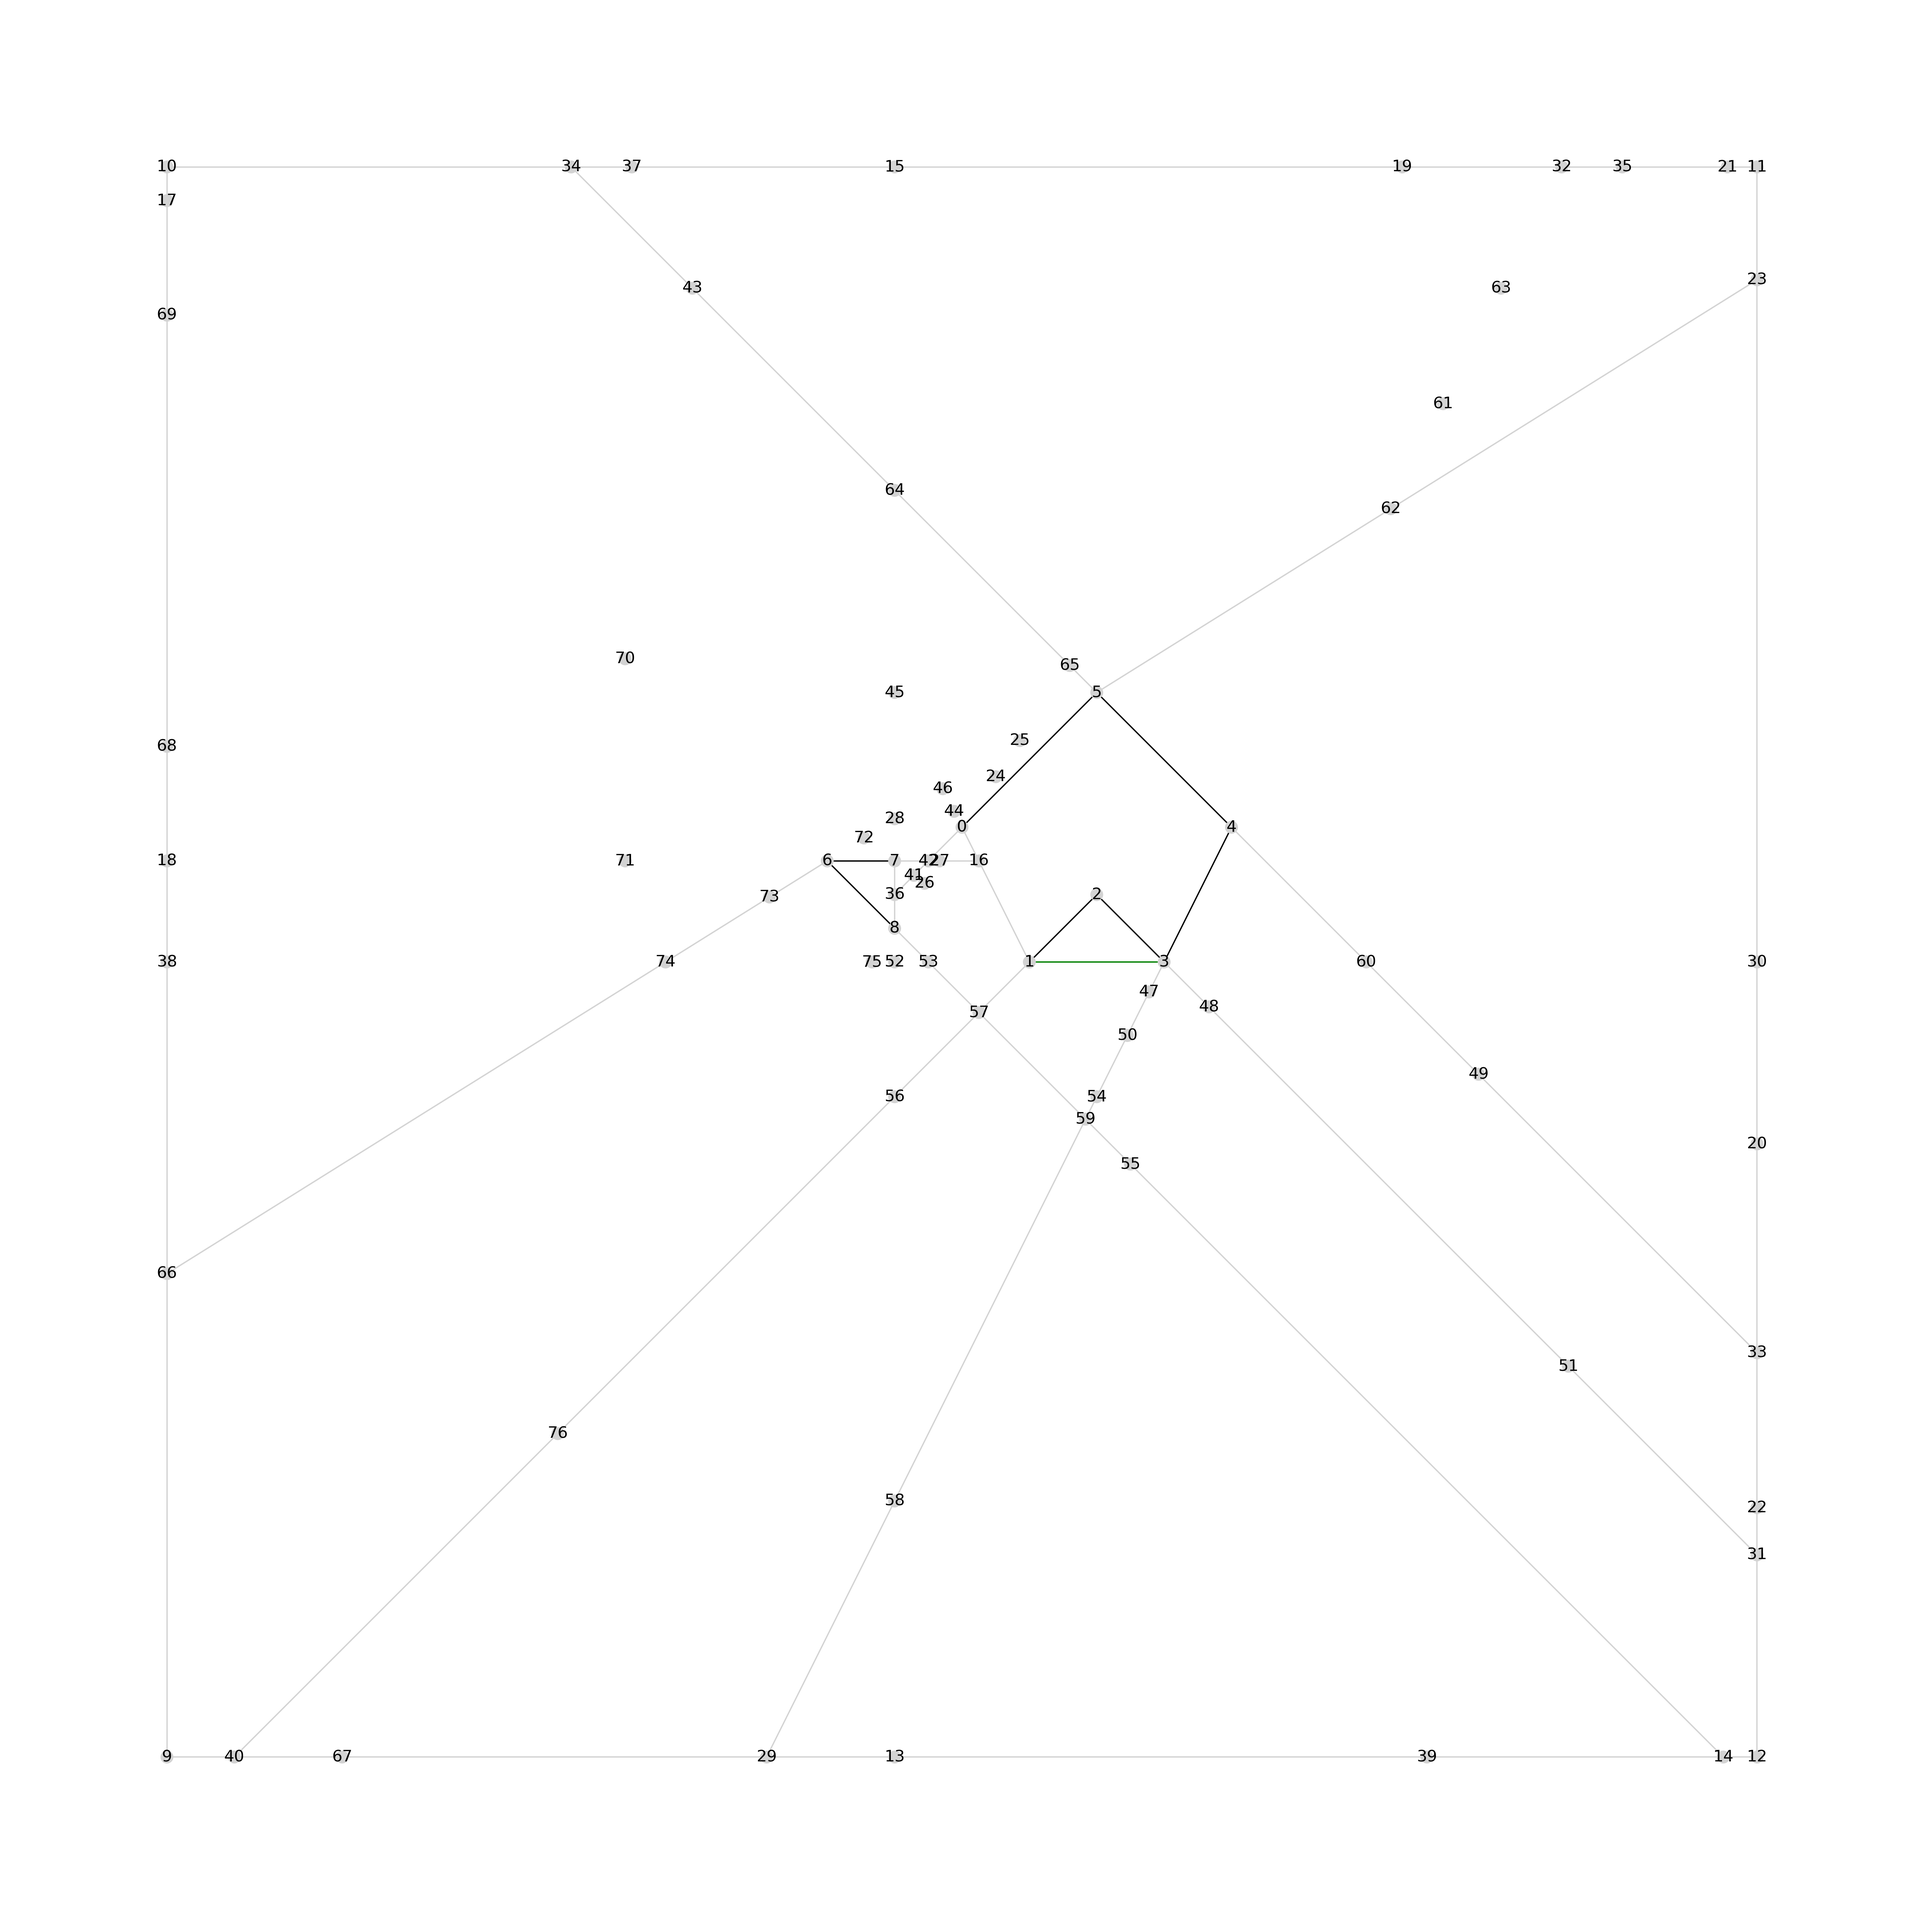
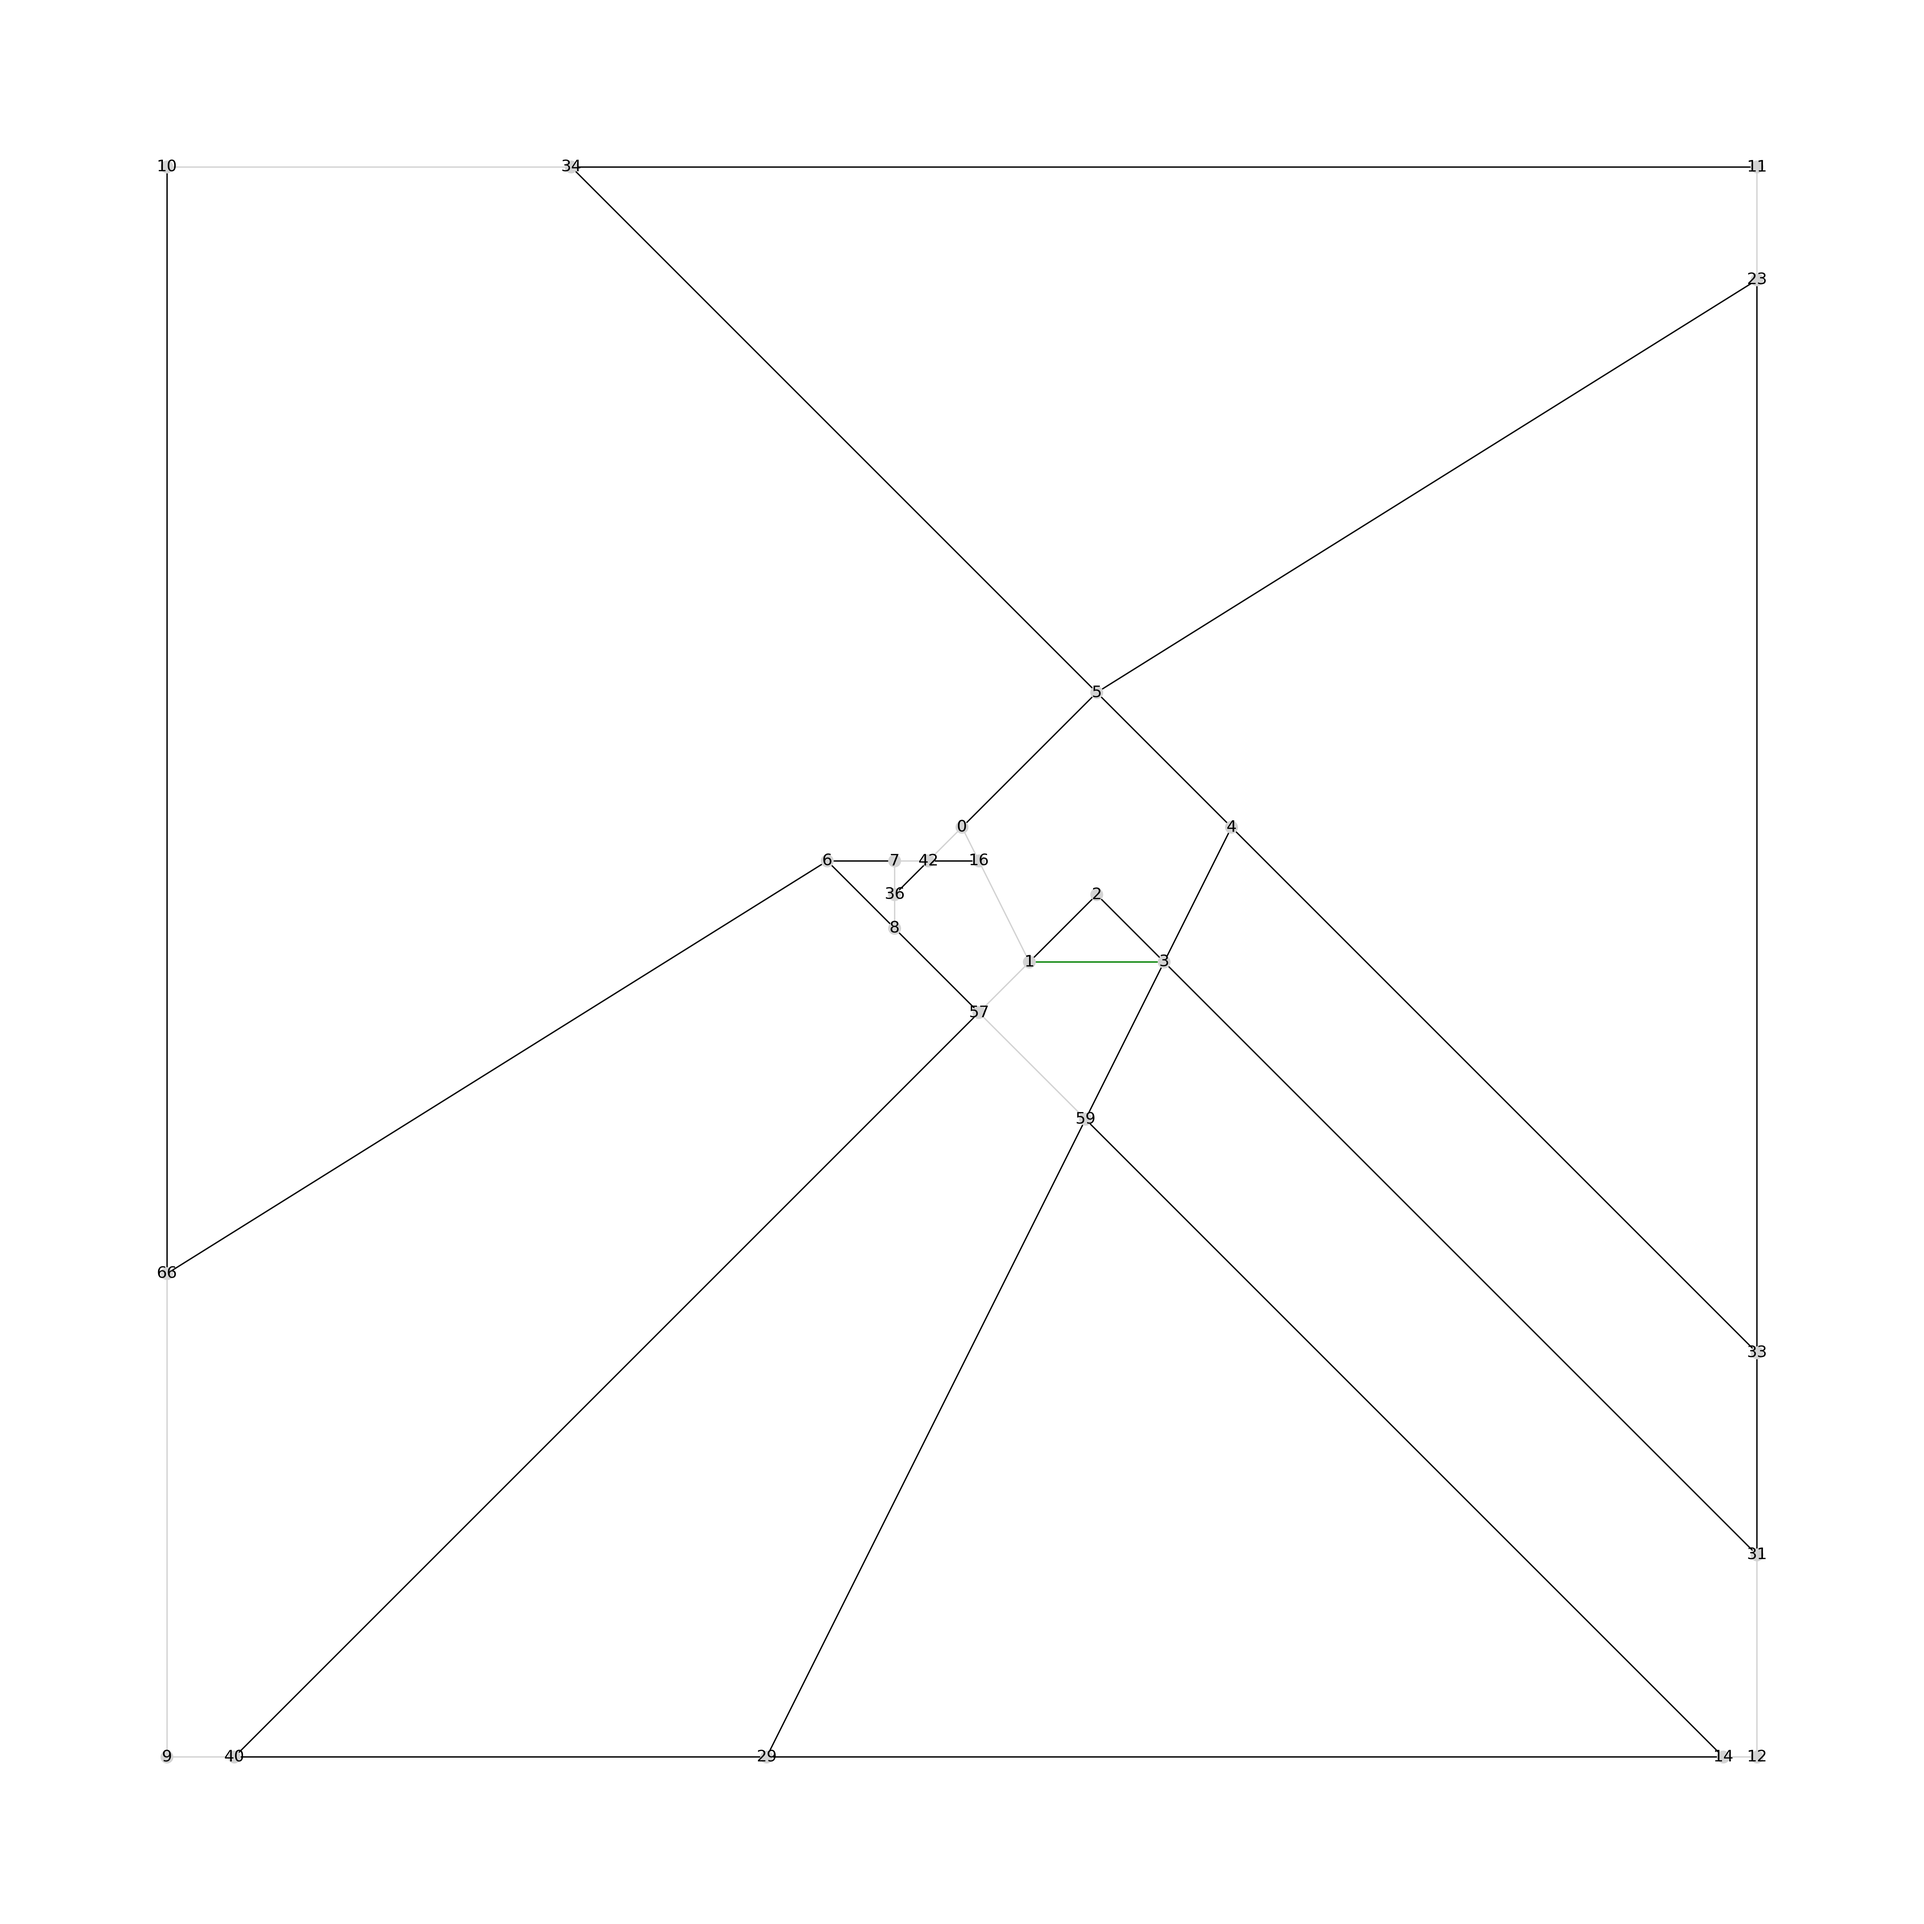
simplifcation of graph post merger now complete

Changed region(s): [[0.4675, 0.4363, 0.4987, 0.4675]]

diff --git a/src/sight_cells.py b/src/sight_cells.py
@@ -534,7 +534,6 @@ def check_vertex_visibility_by_crossing(vertex_a, vertex_b, candidate_edges, pos
 def merge_cells_wrapper(face_sight_cells, cells_edge_list, cell_incidences, graph):
 
     # Try Merging Cells in non-convex face
-    # TODO: t
     removed_vertices = merge_face_sight_cells(cells=list(face_sight_cells),
                                               cells_edge_list=cells_edge_list,
                                               cell_incidences=cell_incidences,
@@ -546,6 +545,39 @@ def merge_cells_wrapper(face_sight_cells, cells_edge_list, cell_incidences, grap
                                   face_cell_incidences=cell_incidences,
                                   face_cell_edges=cells_edge_list,
                                   deleted_vertices=frozenset(removed_vertices))
+
+
+def update_sight_cell_graph(sight_cells, graph, positions):
+
+    # Replace all vertices which are virtual, have a degree of 2, and connected only to virtual vertices
+    virtual_nodes = nx.get_node_attributes(graph, "virtual")
+
+    # Iterate over all vertices to determine whether it must be removed
+    for node in list(graph.nodes()):
+
+        # Get the current node's edges
+        node_edges = list(graph.edges(node))
+
+        # If the vertex is disconnected, remove it
+        if len(node_edges) == 0:
+            graph.remove_node(node)
+            continue
+
+        # If the node has a degree of more than 2, it must remain
+        if len(node_edges) > 2 or len(node_edges) == 1:
+            continue
+
+        # If the node is not virtual, do not consider it
+        if node not in virtual_nodes:
+            continue
+
+        # Get vertices adjacent to current node and connect them with a new edge
+        vertex_a, vertex_b = set(node_edges[0]) - {node}, set(node_edges[1]) - {node}
+        graph.add_edge(u_of_edge=vertex_a.pop(), v_of_edge=vertex_b.pop())
+
+        # Remove the original vertex and its edges
+        graph.remove_edges_from(node_edges)
+        graph.remove_node(node)
 
 
 def merge_all_face_cells(face_sight_cells, face_cell_edge_map, cell_incidences, graph):

diff --git a/main.py b/main.py
@@ -145,6 +145,9 @@ def get_outer_face_sight_cells(outer_faces, sorted_outer_edges, is_cycle, target
                         graph=outer_graph)
 
     # TODO: UPDATE THE GRAPH BY REMOVING DISCONNECTED, AND VIRTUAL VERTICES WHICH ARE CONNECTED TO ONLY VIRTUALS
+    print(f"\nouter edge map: {outer_edge_map}")
+    print(f"\nouter edge list: {outer_sight_cell_edges}")
+    update_sight_cell_graph(outer_sight_cells, outer_graph, outer_positions)
 
     # Draw Merged Embedding
     draw_graph(graph=outer_graph, positions=outer_positions)
